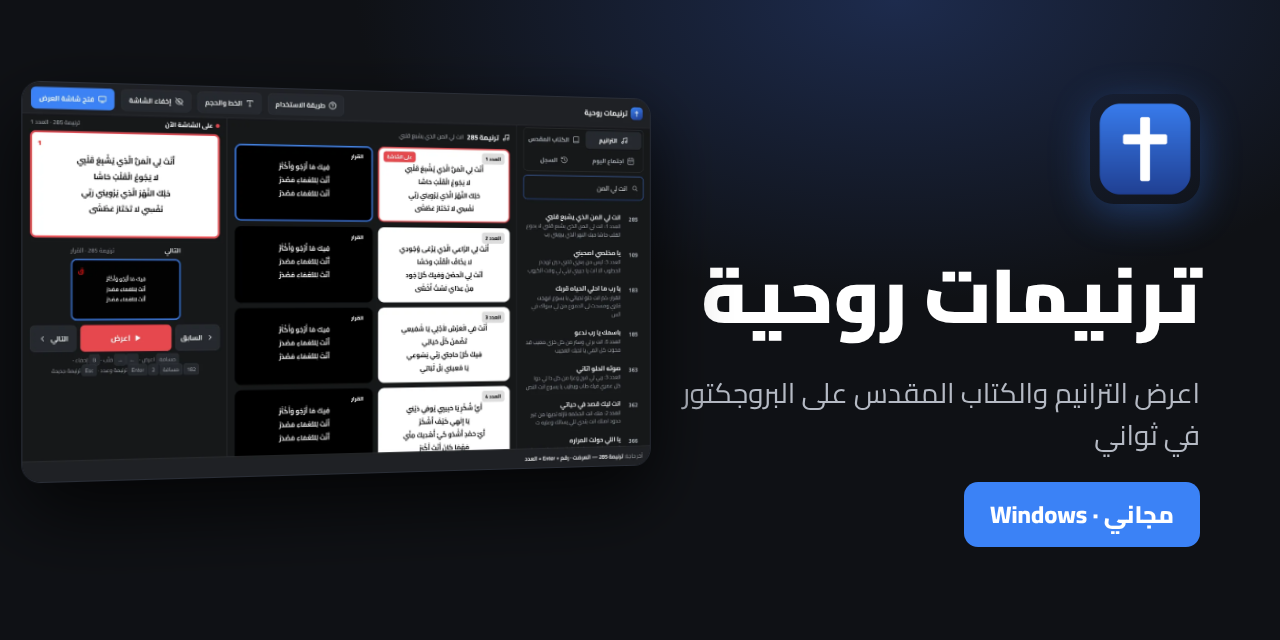
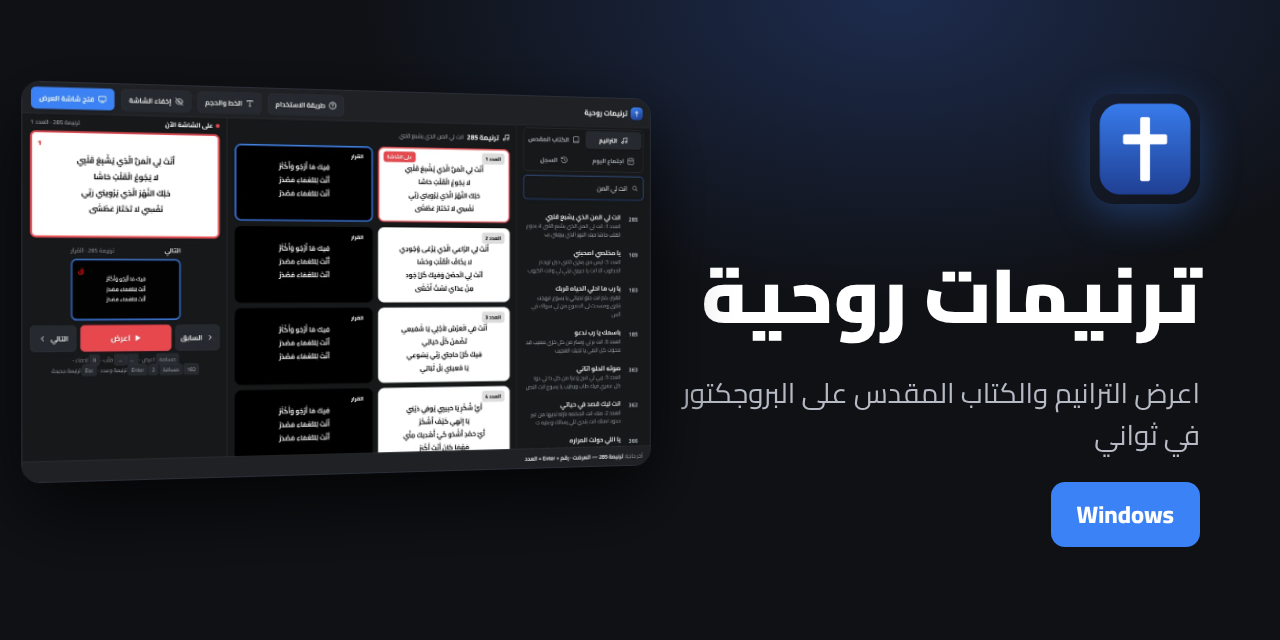
شيل كلمة مجاني
Claude-Session: https://claude.ai/code/session_01VVk9DJb7Vjmr1n9gfdnBKE

Changed region(s): [[0.75, 0.75, 0.9375, 0.875]]

diff --git a/index.html b/index.html
@@ -4,15 +4,15 @@
 <meta charset="utf-8">
 <meta name="viewport" content="width=device-width,initial-scale=1">
 <title>ترنيمات روحية — برنامج عرض الترانيم والكتاب المقدس للكنيسة</title>
-<meta name="description" content="برنامج مجاني لعرض الترانيم الروحية والكتاب المقدس (فان دايك المشكول) على البروجكتور في الكنيسة — Windows">
+<meta name="description" content="برنامج لعرض الترانيم الروحية والكتاب المقدس (فان دايك المشكول) على البروجكتور في الكنيسة — Windows">
 <meta property="og:type" content="website">
 <meta property="og:title" content="ترنيمات روحية — للكنيسة">
-<meta property="og:description" content="برنامج مجاني لعرض الترانيم الروحية والكتاب المقدس على البروجكتور. بالرقم، بالكلمة، بالاختصار — ومن غير إنترنت.">
-<meta property="og:image" content="https://tarnematrohiya.github.io/preview.png?v=1">
+<meta property="og:description" content="برنامج لعرض الترانيم الروحية والكتاب المقدس على البروجكتور. بالرقم، بالكلمة، بالاختصار — ومن غير إنترنت.">
+<meta property="og:image" content="https://tarnematrohiya.github.io/preview.png?v=2">
 <meta property="og:image:width" content="1280"><meta property="og:image:height" content="640">
 <meta property="og:url" content="https://tarnematrohiya.github.io/">
 <meta name="twitter:card" content="summary_large_image">
-<meta name="twitter:image" content="https://tarnematrohiya.github.io/preview.png?v=1">
+<meta name="twitter:image" content="https://tarnematrohiya.github.io/preview.png?v=2">
 <link rel="icon" href="icon.png">
 <style>
 @font-face{font-family:C;src:url(fonts/Cairo.ttf);font-weight:200 1000;font-display:swap}
@@ -163,10 +163,10 @@ footer{border-top:1px solid var(--line);padding:18px 0;color:var(--mut);font-siz
   <div class="cta">
     <a class="btn p dlbtn" id="dl" href="https://github.com/tarnematrohiya/tarnemat-rohiya/releases/latest"><svg class="ic"><use href="#win"/></svg>تحميل لـ <bdi>Windows 10 / 11</bdi></a>
     <a class="btn s sm dlbtn" id="dl7" href="https://github.com/tarnematrohiya/tarnemat-rohiya/releases/latest">نسخة <bdi>Windows 7 / 8</bdi></a>
-    <span class="ver" id="ver">مجاني بالكامل · بيشتغل من غير إنترنت · بيتحدّث لوحده</span>
+    <span class="ver" id="ver">بيشتغل من غير إنترنت · بيتحدّث لوحده</span>
   </div>
 
-  <div class="note"><b>⚠ تنبيه:</b> Windows ممكن يقولك إن البرنامج "مش آمن" — ده طبيعي مع أي برنامج مجاني جديد، والبرنامج سليم.<br><a href="#install">شوف إزاي تسطّبه خطوة بخطوة ↓</a></div>
+  <div class="note"><b>⚠ تنبيه:</b> Windows ممكن يقولك إن البرنامج "مش آمن" — ده طبيعي مع أي برنامج جديد، والبرنامج سليم.<br><a href="#install">شوف إزاي تسطّبه خطوة بخطوة ↓</a></div>
   <div class="pills"><span>من كتاب ترنيمات روحية</span><span>الكتاب المقدس بالتشكيل</span><span>بحث حتى لو فيه غلطة</span><span>من غير إنترنت</span></div>
 
   <div class="demo">
@@ -222,10 +222,10 @@ footer{border-top:1px solid var(--line);padding:18px 0;color:var(--mut);font-siz
 </div></section>
 
 <section class="final"><div class="w">
-  <a class="btn p dlbtn" href="https://github.com/tarnematrohiya/tarnemat-rohiya/releases/latest"><svg class="ic"><use href="#idl"/></svg>تحميل ترنيمات روحية — مجاني</a>
+  <a class="btn p dlbtn" href="https://github.com/tarnematrohiya/tarnemat-rohiya/releases/latest"><svg class="ic"><use href="#idl"/></svg>تحميل ترنيمات روحية</a>
 </div></section>
 
-<footer><div class="w">ترنيمات روحية · مجاني لخدمة الكنيسة</div></footer>
+<footer><div class="w">ترنيمات روحية · لخدمة الكنيسة</div></footer>
 
 <div id="reg"><form id="regf">
   <h3>عرّفنا بيك وبكنيستك</h3>
@@ -244,7 +244,7 @@ fetch('https://api.github.com/repos/' + REPO + '/releases/latest').then(r => r.j
   const a = A.find(x => /^Tarnemat-Rohiya-Setup-[\d.]+\.exe$/.test(x.name)), b = A.find(x => /Win7-Setup-[\d.]+\.exe$/.test(x.name));
   if (a) document.querySelectorAll('.dlbtn:not(#dl7)').forEach(x => x.href = a.browser_download_url);
   if (b) document.getElementById('dl7').href = b.browser_download_url; else document.getElementById('dl7').style.display = 'none';
-  if (r.tag_name) document.getElementById('ver').innerHTML = 'النسخة <bdi dir="ltr">' + r.tag_name.replace(/^v/, '') + '</bdi> · مجاني بالكامل · بيشتغل من غير إنترنت · بيتحدّث لوحده';
+  if (r.tag_name) document.getElementById('ver').innerHTML = 'النسخة <bdi dir="ltr">' + r.tag_name.replace(/^v/, '') + '</bdi> · بيشتغل من غير إنترنت · بيتحدّث لوحده';
 }).catch(() => {});
 
 // ---- before the first download: name + church go to the service's Google Form (once per browser) ----
